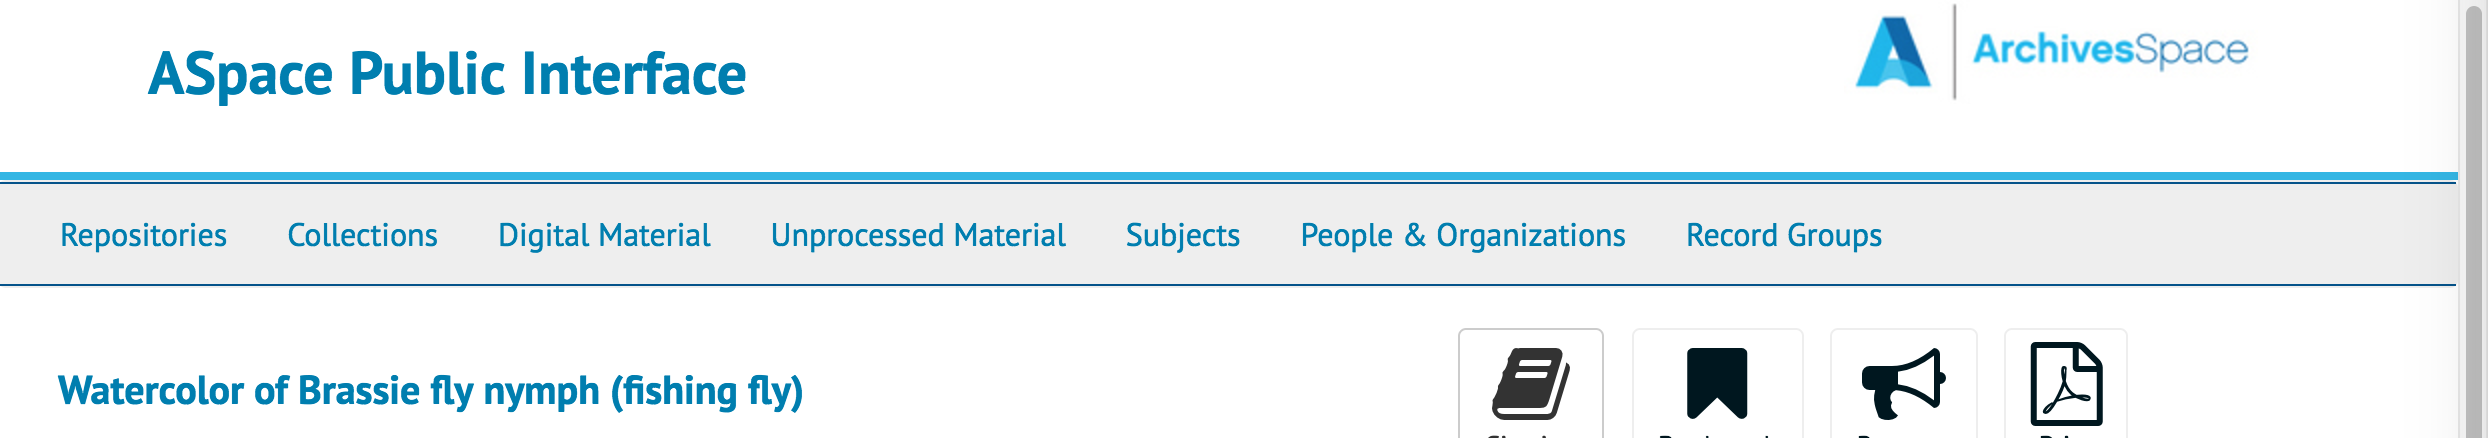
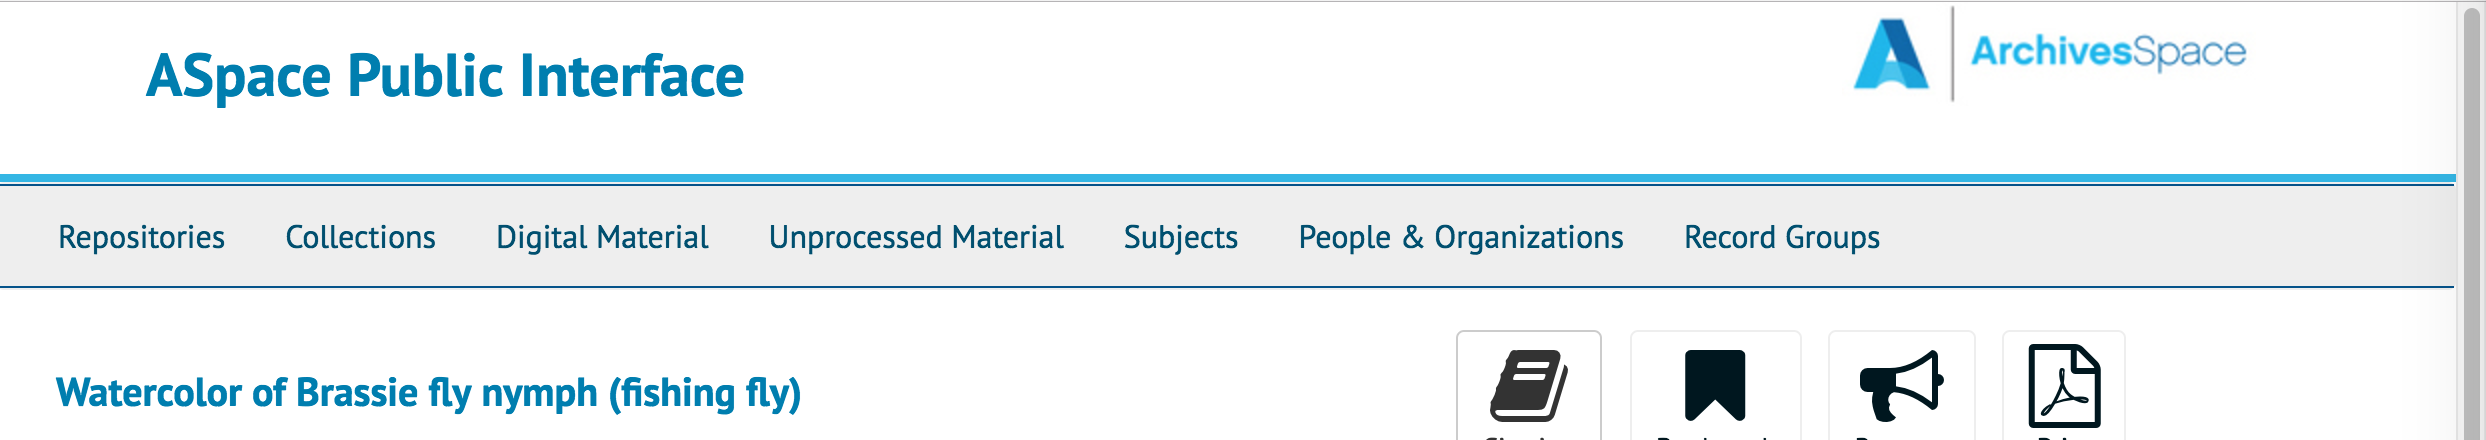
archivesSpace_menu_color, screen capture and UI code of proposed text links

diff --git a/evaluation/ArchivesSpace/archivesSpace_menu_color/index.html b/evaluation/ArchivesSpace/archivesSpace_menu_color/index.html
@@ -1,8 +1,8 @@
+<!-- All the proposed colors where tested on 
+	   http://webaim.org/resources/contrastchecker/ 
+	   to ensure sufficient contrast -->
 
-
-
-
-
+<!-- 1 UI comments were added to this code -->
 
 <section id="navigation">
 	<nav class="navbar navbar-default" aria-label="top-level navigation">
@@ -15,6 +15,10 @@
 	      </button>
 	      <div class="collapse navbar-collapse" id="collapsemenu">
 		<ul class="nav nav navbar-nav">
+
+<!-- UI comment #1 - change classes 
+	   ".navbar-default .navbar-nav > li > a" 
+	   from "#007eaf" to "004f6f" -->
 		  <li><a href="/repositories">Repositories</a></li>
 		  <li><a href="/repositories/resources">Collections</a></li>
 		  <li><a href="/search?recordtypes[]=digital_object">Digital Material</a></li>
@@ -27,4 +31,3 @@
 	    </div>
 	</nav>
 </section>
-      
